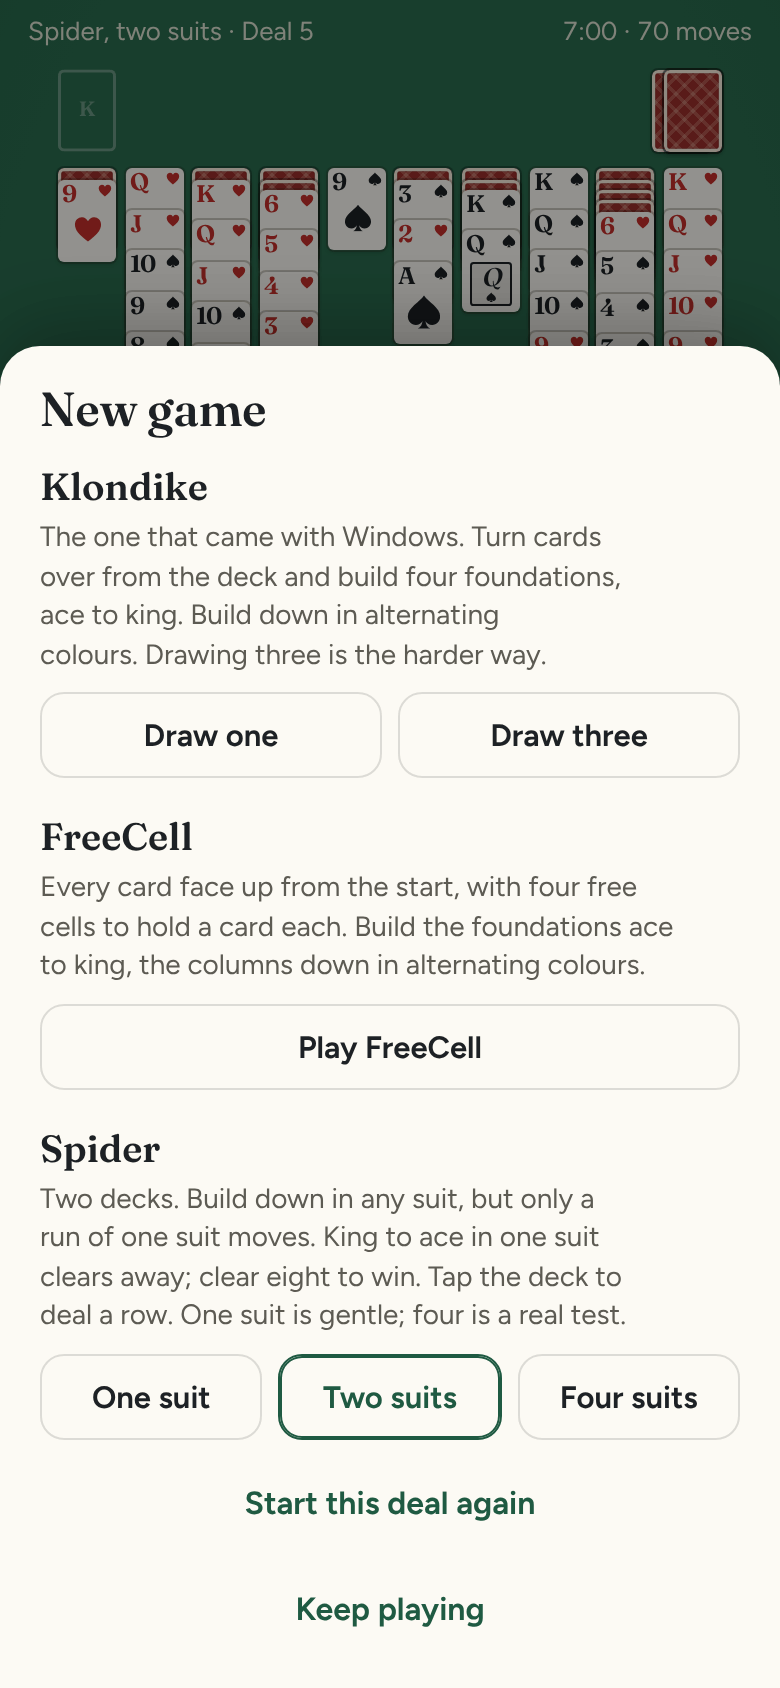
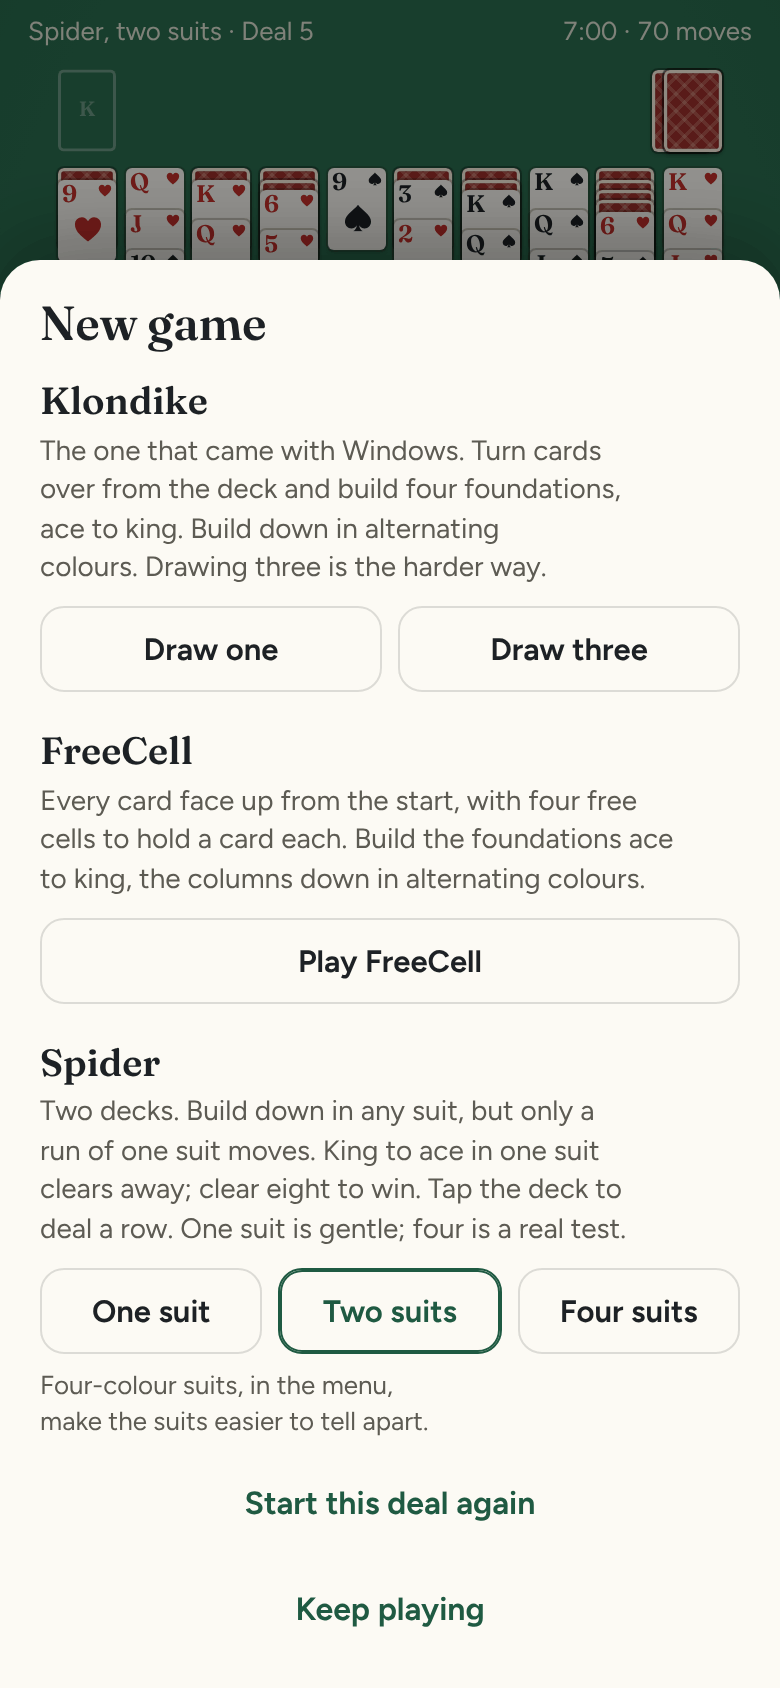
The New game sheet says under Four suits that Four-colour suits, in the menu, make the suits easier to tell apart
Four-suit Spider on a phone tells hearts from diamonds only by a small corner symbol, and nothing pointed players to the
setting that colours them apart. A line under the Spider buttons now says where it is; nobody's settings change. Held
sideways, Spider gets a little more of the sheet's width so its three buttons stay on one line and the sheet still
fits without scrolling. This answers Mark's question on how four-suit Spider players find Four-colour suits.

Claude-Session: https://claude.ai/code/session_01PQbLNWcaN23kNnArnK42HQ

Changed region(s): [[0.0, 0.154, 1.0, 0.8626]]

diff --git a/css/app.css b/css/app.css
@@ -517,6 +517,7 @@ button { font: inherit; color: inherit; }
 .pick h3 { margin: 0 0 3px; font: 600 19px/1.25 var(--serif); letter-spacing: 0; text-transform: none; color: var(--ink); }
 .pick p { margin: 0 0 9px; color: var(--muted); font-size: 14px; line-height: 1.4; text-wrap: balance; }
 .pick .row { display: flex; flex-wrap: wrap; gap: 8px; }
+.pick .aside { margin: 7px 0 0; font-size: 13px; }
 .choice {
   flex: 1 1 0;
   min-width: max-content;
@@ -553,10 +554,12 @@ button { font: inherit; color: inherit; }
   #sheet-new .panel { width: min(100% - 32px, 760px); max-height: calc(100dvh - 8px); padding-top: 14px; padding-bottom: calc(8px + env(safe-area-inset-bottom)); }
   #sheet-new h2 { margin-bottom: 4px; font-size: 21px; }
   #sheet-new .note { margin: 0 0 8px; }
-  #sheet-new .games { grid-template-columns: repeat(3, 1fr); gap: 18px; }
+  #sheet-new .games { grid-template-columns: 1fr 0.85fr 1.25fr; gap: 14px; } /* Spider's three buttons on one line */
   #sheet-new .pick h3 { font-size: 18px; }
   #sheet-new .pick p { font-size: 13px; line-height: 1.35; margin-bottom: 8px; }
   #sheet-new .choice { padding: 9px 12px; font-size: 15px; }
+  #sheet-new .pick:last-child .choice { padding: 9px 6px; font-size: 14.5px; }
+  #sheet-new .pick .aside { margin: 5px 0 0; font-size: 12.5px; line-height: 1.3; }
   .plains { display: flex; gap: 8px; margin-top: 6px; }
   .plains .plain { margin-top: 0; }
 }

diff --git a/index.html b/index.html
@@ -63,6 +63,7 @@
           <h3>Spider</h3>
           <p>Two decks. Build down in any suit, but only a run of one suit moves. King to ace in one suit clears away; clear eight to win. Tap the deck to deal a row. One suit is gentle; four is a real test.</p>
           <div class="row"><button type="button" class="choice" data-v="s1">One suit</button><button type="button" class="choice" data-v="s2">Two suits</button><button type="button" class="choice" data-v="s4">Four suits</button></div>
+          <p class="aside">Four-colour suits, in the menu, make the suits easier to tell apart.</p>
         </div>
       </div>
       <div class="plains">

diff --git a/sw.js b/sw.js
@@ -8,7 +8,7 @@
 // fingerprint of every file in SHELL: change any of them and test/e2e.mjs fails until FILES is changed to match (it
 // says what to), which changes this file, so every copy is made whole again at once.
 const CACHE = 'patience-v6'; // bump the number when the file list changes
-const FILES = 'de49ccc8'; // test/e2e.mjs checks this
+const FILES = 'd6c997be'; // test/e2e.mjs checks this
 const SHELL = [
   './', 'index.html', 'carry.js', 'icon.svg', 'manifest.webmanifest', 'icon-180.png', 'icon-192.png',
   'css/app.css', 'fonts/fraunces.woff2', 'fonts/figtree.woff2',
